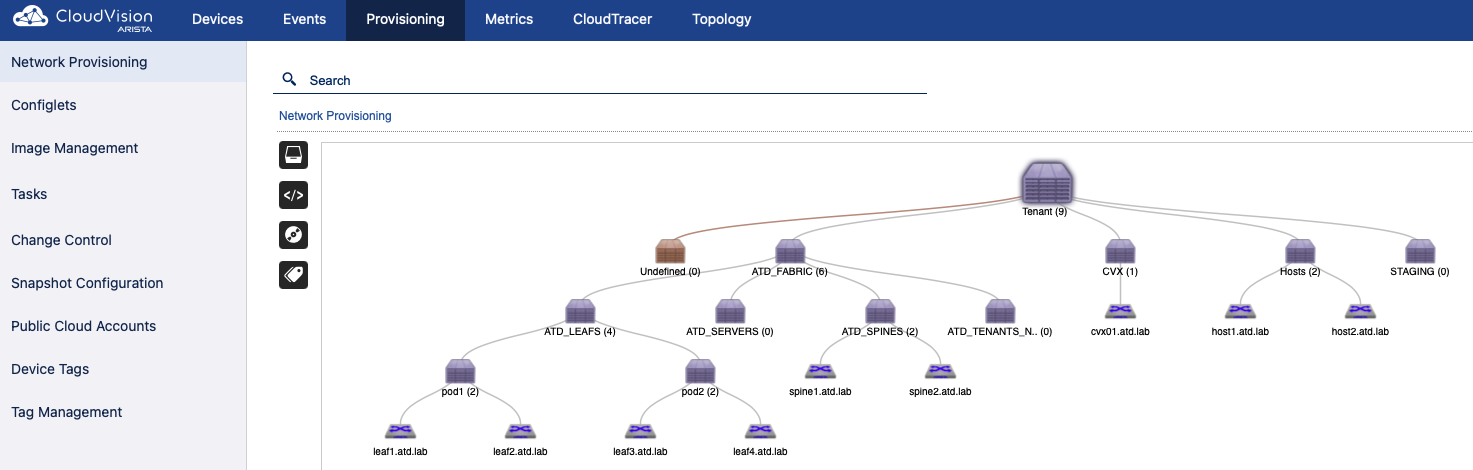
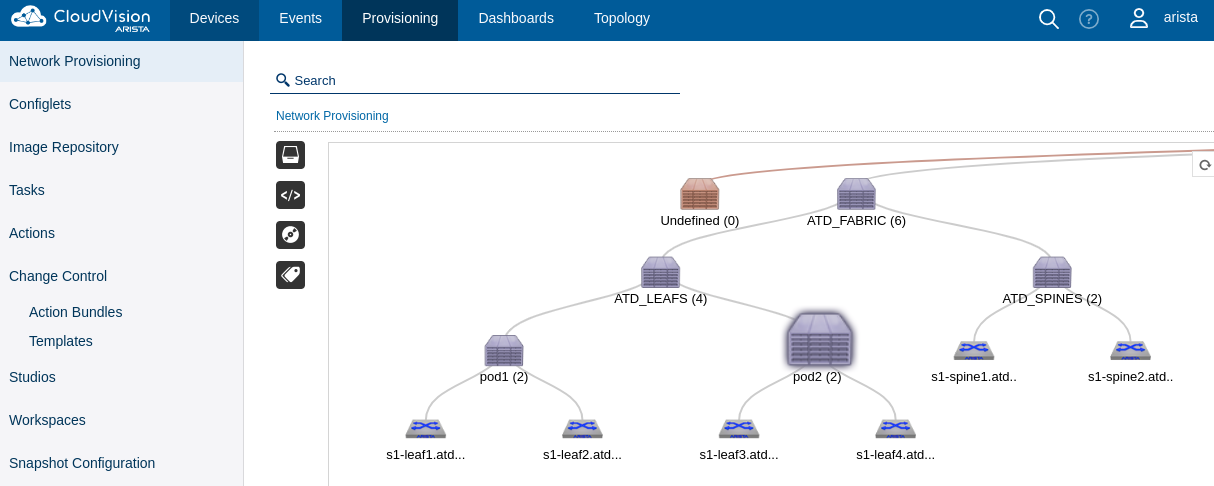
Cleanup filed and demo markdown file

diff --git a/DEMO.md b/DEMO.md
@@ -22,27 +22,35 @@ cd labfiles/arista-ansible/atd-avd
 
 In addition, open CloudVision Portal (CVP) by clicking the __CVP__ link. Then, log in with the username `arista` and the auto-generated password on the lab topology screen.
 
-## 2. Configure your inventory
+## 2. Configure your credential
 
-Because the password is auto-generated, you must update the `ansible_password` variable in this inventory file to use the correct credentials. Also, ensure the `ansible_host` variable for `cv_atd1` is set to the static IP below.
+Because the password is auto-generated, you must update the `ansible_password` variable. We will read a configuration file to set our credential file as an environment variable.
 
-```yaml
-# edit atd-inventory/inventory.yml
----
-all:
-  children:
-    cv_servers:
-      hosts:
-        cv_atd1:
-          ansible_host: 192.168.0.5
-    ...
-  vars:
-    ansible_user: arista
-    ansible_password: # Update password with lab credentials
-    ...
+```shell
+export LABPASSPHRASE=`cat /home/coder/.config/code-server/config.yaml| grep "password:" | awk '{print $2}'`
 ```
 
-## 3. Prepare ATD
+## 3. Install all the requirements
+
+The code block below performs the following actions:
+
+- Moves to the correct directory
+- Installs Ansible Galaxy collections based on our `requirements.yml` file
+- Exports an environment variable based on the location of the `arista.avd` collection
+- Leverages the new environment variable to install the Python requirements
+- Clones this repository
+- Moves to the cloned repository folder
+
+    ```shell
+    cd /home/coder/project/labfiles
+    ansible-galaxy collection install -r requirements.yml
+    export ARISTA_AVD_DIR=$(ansible-galaxy collection list arista.avd --format yaml | head -1 | cut -d: -f1)
+    pip3 install -r ${ARISTA_AVD_DIR}/arista/avd/requirements.txt
+    git clone https://github.com/arista-netdevops-community/atd-avd.git
+    cd atd-avd
+    ```
+
+## 4. Prepare ATD
 
 To emulate a ZTP environment, we will move all devices from their current containers to a dedicated one named `STAGING` to mimic an `undefined` container.
 
@@ -68,7 +76,7 @@ While the playbook supports build/provision/execute in one sequence, we will pro
 ansible-playbook playbooks/atd-fabric-build.yml
 ```
 
-The generated output can be reviewed in your VScode instance:
+You can review the generated output in your VScode instance:
 
 - EOS Configuration: [atd-inventory/intended/configs](atd-inventory/intended/configs)
 - Fabric documentation: [atd-inventory/documentation](atd-inventory/documentation)
@@ -223,16 +231,16 @@ Currently, we have a host-specific configuration for host1 and host2 in [ATD_SER
   - name: host2
     rack: pod2
     adapters:
-      - endpoint_ports: [Eth1, Eth2, Eth3, Eth4]
-        switch_ports: [Ethernet4, Ethernet5, Ethernet4, Ethernet5]
-        switches: [leaf3, leaf3, leaf4, leaf4]
+      - endpoint_ports: [Eth1, Eth2]
+        switch_ports: [Ethernet4, Ethernet4]
+        switches: [s1-leaf3, s1-leaf4]
         profile: TENANT_A
         port_channel:
           description: PortChannel
           mode: active
 ```
 
-AVD can now use a more generic definition of host-facing ports. The `network_ports` feature is useful when a series of interfaces share the same configuration. For example, if we wanted interfaces four through five on leaf3 and leaf4 configured similarly, we could do something like the following:
+AVD can now use a more generic definition of host-facing ports. The `network_ports` feature is useful when a series of interfaces share the same configuration. For example, if we wanted interface four on leaf3 and leaf4 configured similarly, we could do something like the following:
 
 ```yaml
 ---
@@ -243,9 +251,9 @@ port_profiles:
 ...
 network_ports:
   - switches:
-      - leaf[34] # Simple regex to match on leaf3 and leaf4
+      - s1-leaf[34] # Simple regex to match on leaf3 and leaf4
     switch_ports: # Ex Ethernet1-48 or Ethernet2-3/1-48
-      - Ethernet4-5
+      - Ethernet4
     description: Connection to host2
     profile: TENANT_A
 ```
@@ -263,13 +271,6 @@ network_ports:
 
   ```eos
   interface Ethernet4
-     description Connection to host2
-     no shutdown
-     switchport access vlan 110
-     switchport mode access
-     switchport
-  !
-  interface Ethernet5
      description Connection to host2
      no shutdown
      switchport access vlan 110

diff --git a/README.md b/README.md
@@ -14,7 +14,7 @@ To access an ATD topology, please contact your Arista representative.
 
 ## Lab topology
 
-The diagram below shows that the ATD lab topology consists of two Spines, four Leafs, and two Hosts.
+The diagram below shows that the ATD lab topology consists of two data centers. We will only leverage DC1 in this example.
 
 <p align="center">
   <img src="docs/imgs/atd-topo.png" alt="ATD Lab Topology" width="600"/>
@@ -56,36 +56,15 @@ The diagram below shows that the ATD lab topology consists of two Spines, four L
 2. Set credentials and install any required tools
 
     ```shell
+    cd /home/coder/project/labfiles
     export LABPASSPHRASE=`cat /home/coder/.config/code-server/config.yaml| grep "password:" | awk '{print $2}'`
     ansible-galaxy collection install -r requirements.yml
     export ARISTA_AVD_DIR=$(ansible-galaxy collection list arista.avd --format yaml | head -1 | cut -d: -f1)
-    pip3 config set global.disable-pip-version-check true
     pip3 install -r ${ARISTA_AVD_DIR}/arista/avd/requirements.txt
+    git clone https://github.com/arista-netdevops-community/atd-avd.git
     ```
 
-3. Update the inventory file with new lab credentials
-
-    - Open file in VS Code: `atd-avd/atd-inventory/inventory.yml`
-
-    - Set credentials in the `inventory.yml` file to the credentials provided on the ATD landing page.
-
-      ```yaml
-      ---
-      all:
-        children:
-          cv_servers:
-            hosts:
-              cv_atd1:
-                ansible_host: 192.168.0.5
-                cv_collection: v3
-      ...
-      vars:
-        ansible_user: arista
-        ansible_password: # Update password with lab credentials
-      ...
-      ```
-
-4. Run the playbook to prepare CloudVision for AVD
+3. Run the playbook to prepare CloudVision for AVD
 
     - Execute the following command:
 
@@ -95,7 +74,7 @@ The diagram below shows that the ATD lab topology consists of two Spines, four L
 
     - Check that tasks in CloudVision have been automatically completed
 
-5. Run playbook to deploy AVD setup
+4. Run playbook to deploy AVD setup
 
     - Execute the following commands:
 
@@ -106,7 +85,7 @@ The diagram below shows that the ATD lab topology consists of two Spines, four L
 
     - Execute pending tasks in CloudVision Portal manually.
 
-6. Run validation and snapshot playbooks
+5. Run validation and snapshot playbooks
 
     - Execute the following commands:
 
